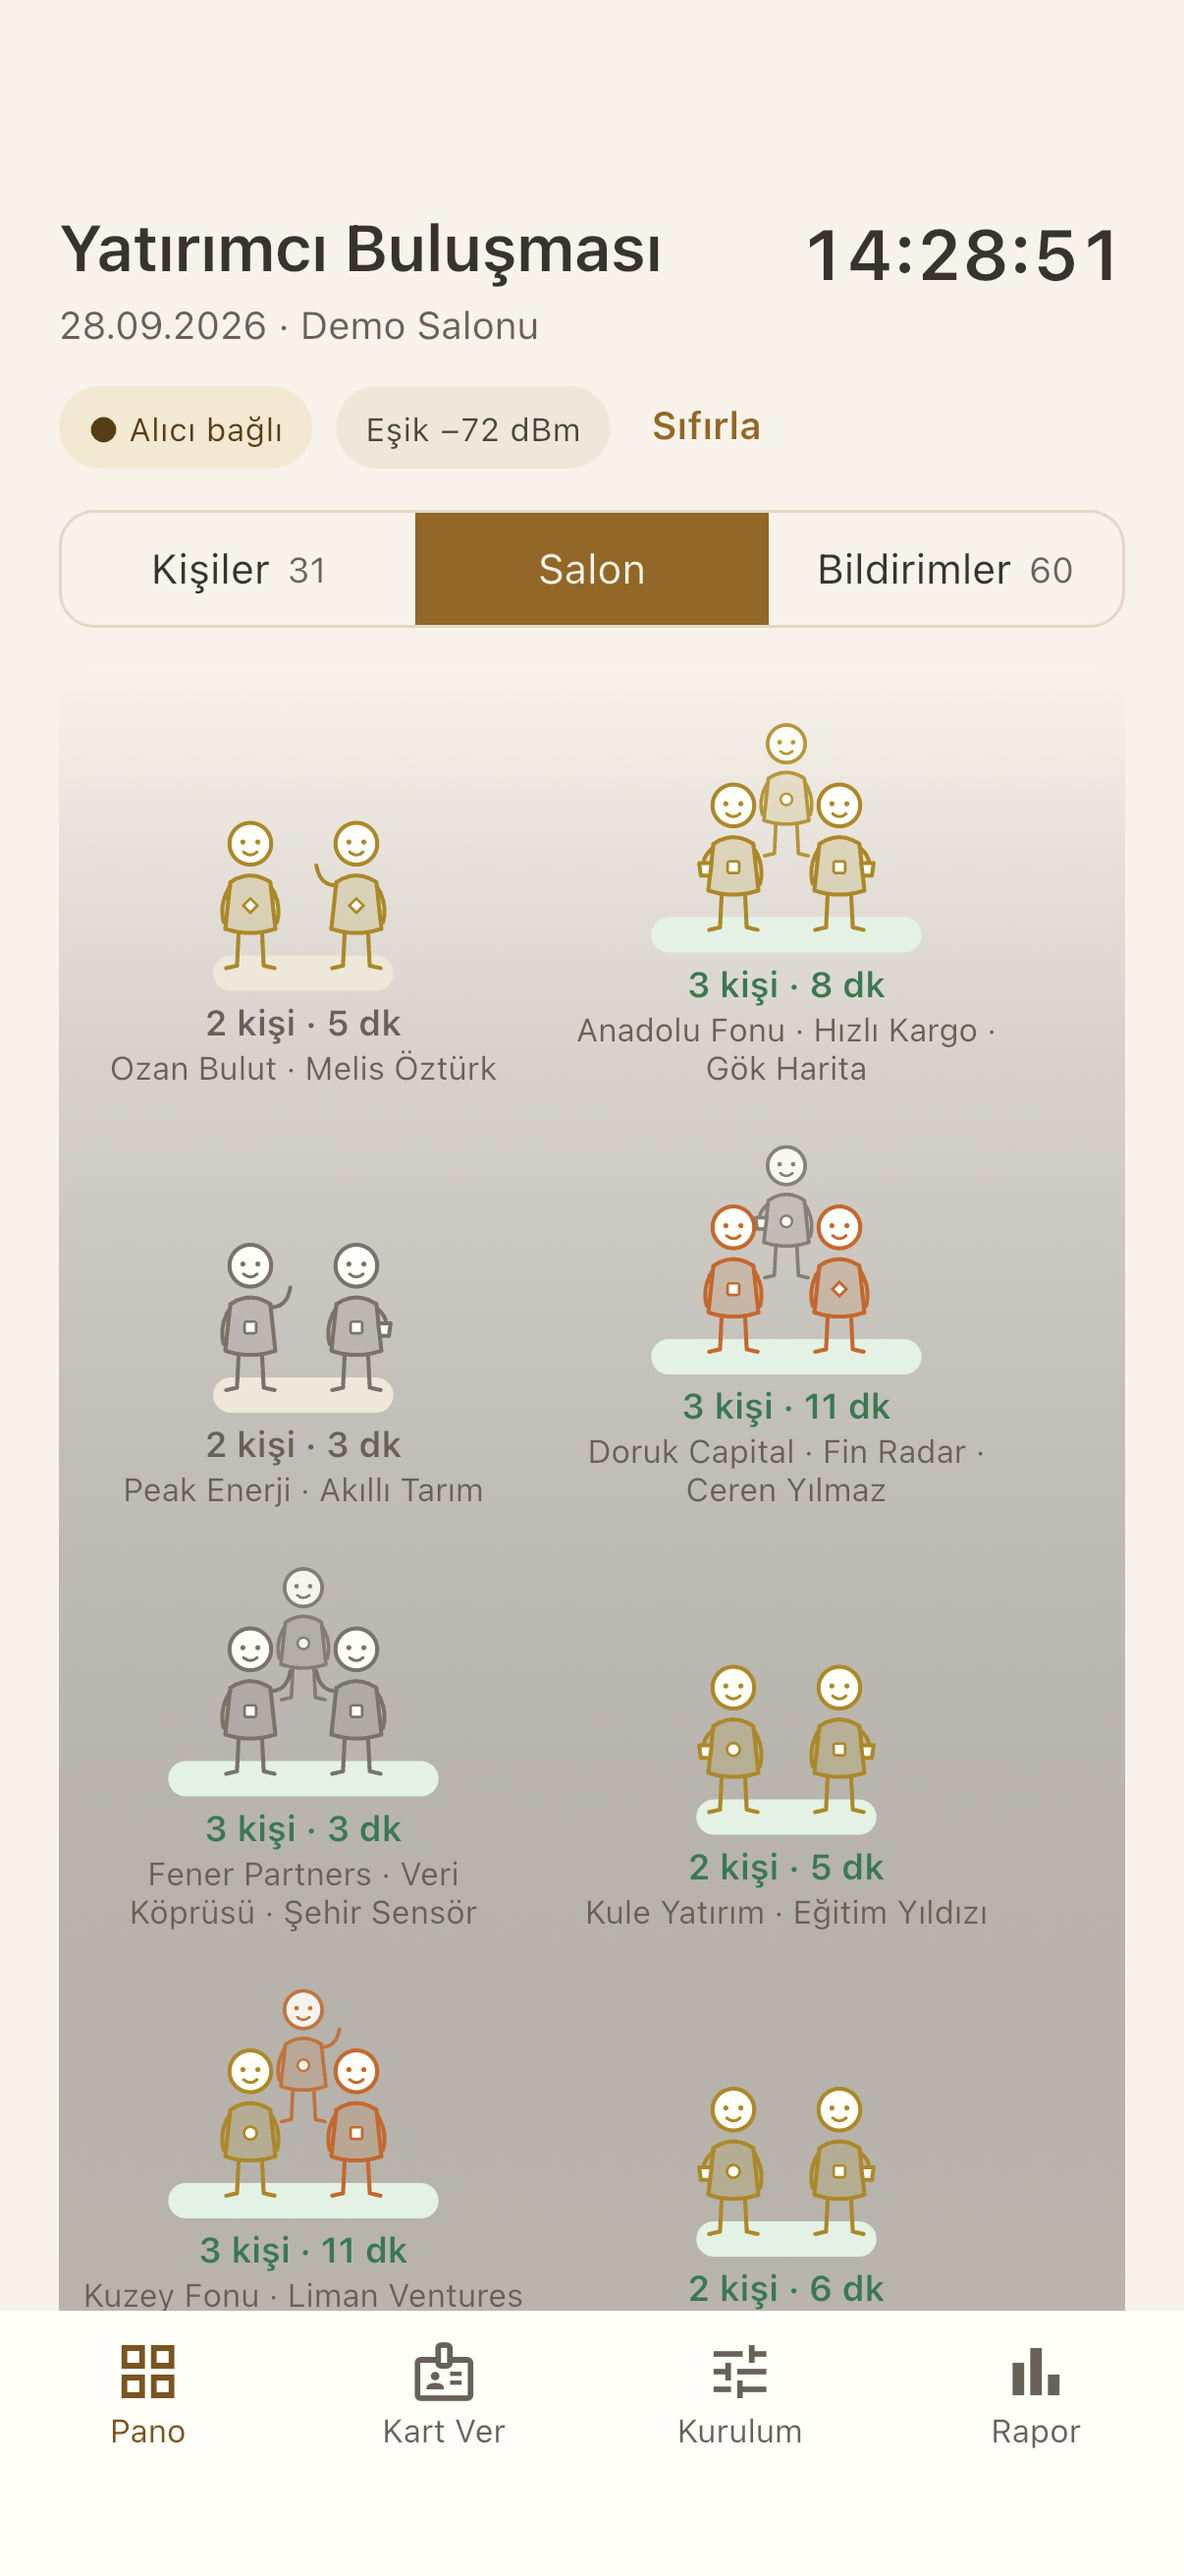
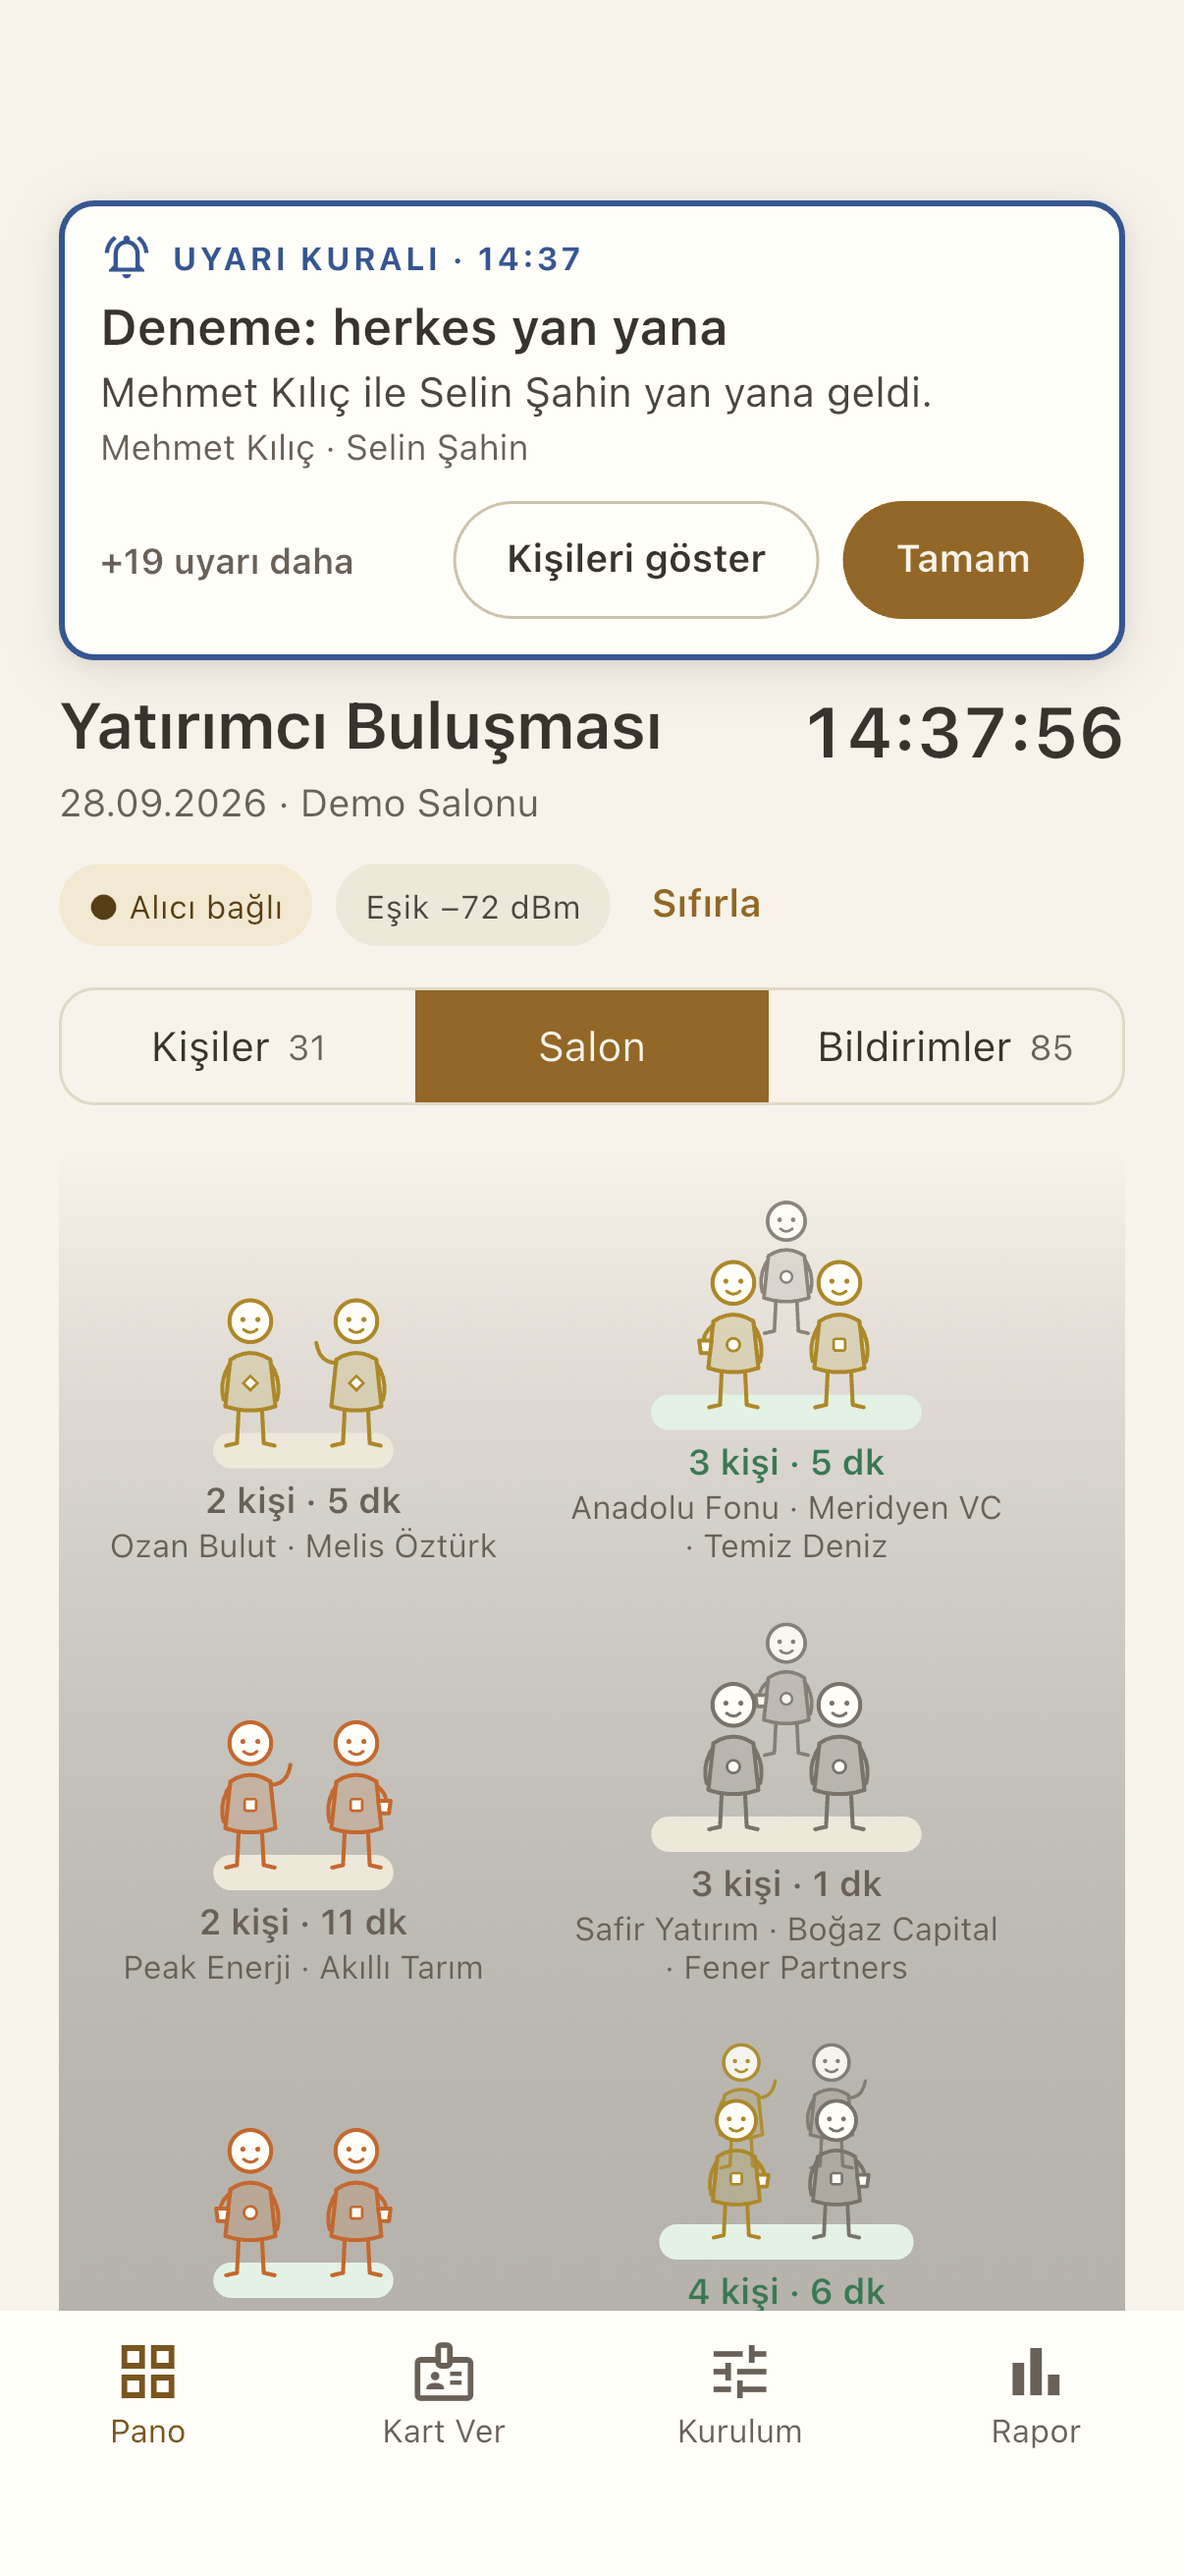
M2: açılır uyarı simülatör görüntüsü (gerçek sunucu, deneme kuralı)

Changed region(s): [[0.0307, 0.0618, 0.9511, 0.8959], [0.4909, 0.6178, 0.8284, 0.8959]]

diff --git a/integration_test/sunucu_canli_test.dart b/integration_test/sunucu_canli_test.dart
@@ -3,6 +3,7 @@ import 'dart:io';
 import 'package:flutter/material.dart';
 import 'package:flutter_test/flutter_test.dart';
 import 'package:integration_test/integration_test.dart';
+import 'package:yakinlik_mobil/ekranlar/pano/uyari_penceresi.dart';
 import 'package:yakinlik_mobil/uygulama.dart';
 
 /// Gerçek sunucuya bağlı uçtan uca deneme (M1): uygulama `--dart-define=SUNUCU=http://…:8002` ile açılır,
@@ -36,6 +37,18 @@ void main() {
     await binding.takeScreenshot('$platform/m2_salon_sunucu');
     await tester.tap(find.text('Kişiler'));
     await tester.pump(const Duration(milliseconds: 200));
+
+    // Sunucuda "herkes ile herkes yan yana" kuralı varsa açılır uyarı gelir (deneme betiği kuralı önceden ekler).
+    var uyari = false;
+    for (var i = 0; i < 150 && !uyari; i++) {
+      await tester.pump(const Duration(milliseconds: 200));
+      uyari = find.byType(UyariPenceresi).evaluate().isNotEmpty && find.text('Tamam').evaluate().isNotEmpty;
+    }
+    if (uyari) {
+      await binding.takeScreenshot('$platform/m2_uyari_sunucu');
+      await tester.tap(find.text('Tamam'));
+      await tester.pump(const Duration(milliseconds: 300));
+    }
 
     await tester.tap(find.descendant(of: find.byType(BottomNavigationBar), matching: find.text('Kurulum')));
     for (var i = 0; i < 8; i++) {
